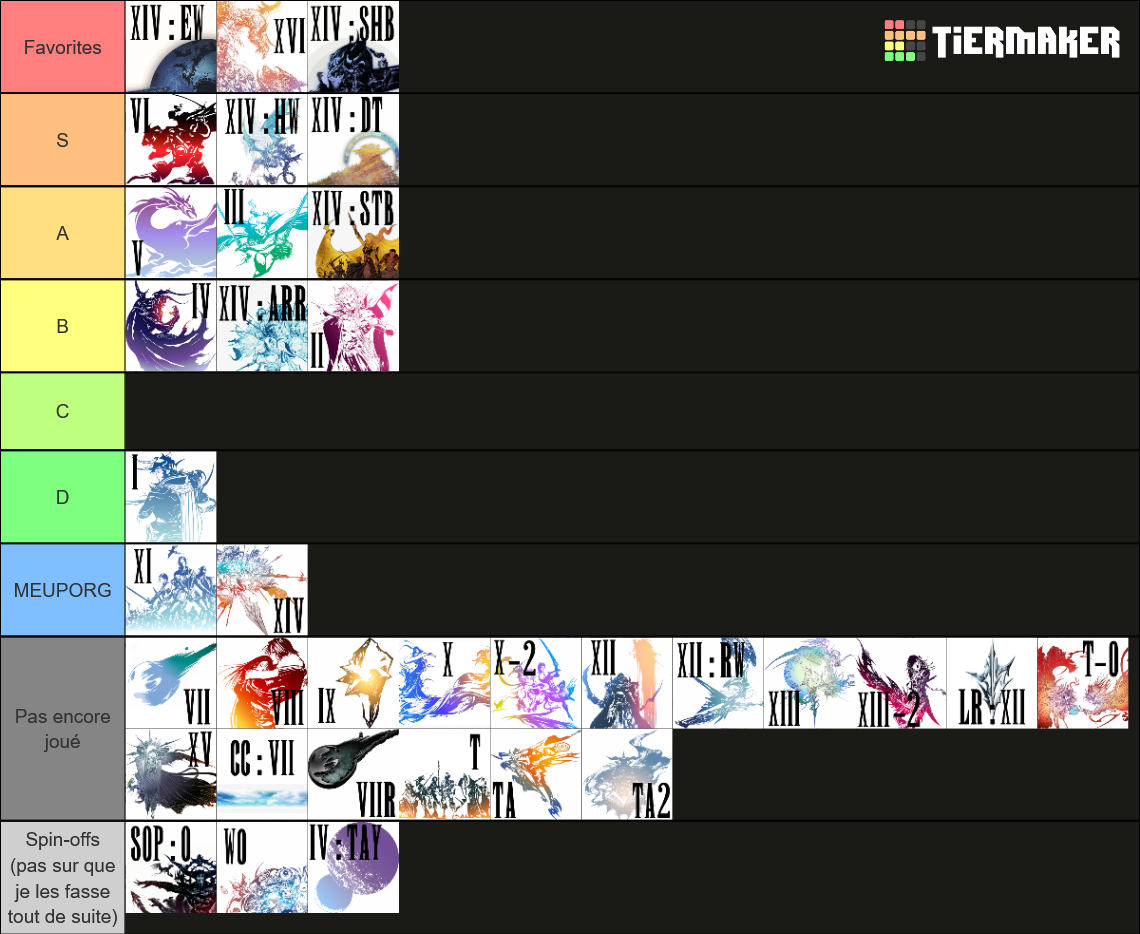
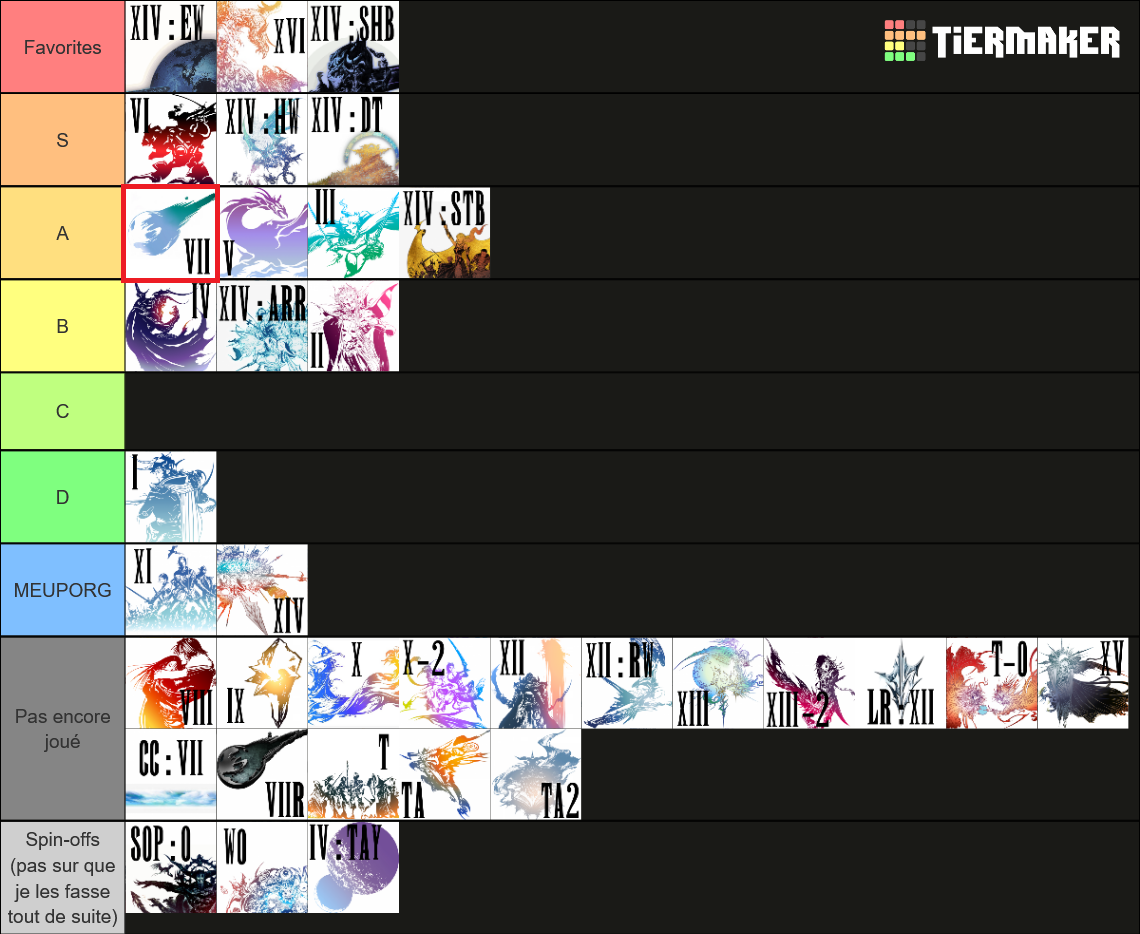
docs: add FF7, Pseudoregalia and The Last of Us articles

Changed region(s): [[0.0921, 0.6831, 1.0, 0.9004], [0.0921, 0.1863, 0.4298, 0.3105]]

diff --git a/_i18n/fr/_posts/2023-12-27-final_fantasy_3.md b/_i18n/fr/_posts/2023-12-27-final_fantasy_3.md
@@ -4,7 +4,7 @@ title:  "(WIP) Final Fantasy III - Le plus grand RPG de la NES"
 tags: final-fantasy
 category: "Final Fantasy Marathon"
 date: "2023-12-27"
-lang: en
+lang: fr
 image:
   path: /assets/img/posts_preview_images/ff3_logo.jpg
   alt: Final Fantasy 3 Logo # or base64 URI
@@ -102,7 +102,7 @@ Nous quittons enfin notre berceau, nous voici sur la vraie map de Final Fantasy 
 
 Il y a de ces moments absolument magiques dans les jeux vidéos, où tous les éléments s'alignent pour créer un moment magique. A titre personnel, la découverte du vrai monde de FF3 en fait partie. La beauté de l'océan, le changement total de paysage et d'envergure, le tout sublimé par une musique qui encapsule parfaitement cette beauté sereine, celle d'un monde qui a tant d'histoires à nous raconter et tant de mystères à nous dévoiler. 
 
-Je pourrais décrire cette scène de mille façons, voici la plus courte: cette scène est belle, c'est la première scène cinématographique de la licence.
+Je pourrais décrire cette scène de mille façons, voici la plus courte: cette scène est belle, c'est la première mise en scène cinématographique du gameplay de la licence, un moment "wow !" si vous préférez.
 
 Après avoir repris ma manette, j'ouvre ma carte. Une seule île ? Tu ne m'auras pas deux fois, Final Fantasy III !
 A la sortie du seul donjon qui nous est accessible, on se retrouve avec de nouvelles questions sur les cristaux, mais surtout, un deuxième moment magique.

diff --git a/_i18n/fr/_posts/2024-12-27-final_fantasy_7.md b/_i18n/fr/_posts/2024-12-27-final_fantasy_7.md
@@ -1,0 +1,25 @@
+---
+layout: post
+title:  "(WIP) Final Fantasy VII - Le Mastodonte"
+tags: final-fantasy
+category: "Final Fantasy Marathon"
+date: "2024-12-27"
+lang: fr
+image:
+  path: /assets/img/posts_preview_images/ff7_logo.jpg
+  alt: Final Fantasy 7 Logo
+---
+
+{% if site.lang == "fr" %}
+  {% capture english_link %}{{ site.url }}/en{{ page.url }}{% endcapture %}
+  <a href="{{ english_link }}" >{% t pages.english_article %}</a>
+{% elsif site.lang == "en" %}
+  {% capture french_link  %}{{ site.url }}{{ page.url }}{% endcapture %}
+ <a href="{{ french_link }}" >{% t pages.french_article %}</a>
+{% endif %}
+
+## Quel jeu de fou
+
+Il est très bien !!
+
+(WIP évidemment)

diff --git a/_i18n/en/_posts/2024-12-27-final_fantasy_7.md b/_i18n/en/_posts/2024-12-27-final_fantasy_7.md
@@ -1,0 +1,25 @@
+---
+layout: post
+title:  "(WIP) Final Fantasy VII - The Giant"
+tags: final-fantasy
+category: "Final Fantasy Marathon"
+date: "2024-12-27"
+lang: en
+image:
+  path: /assets/img/posts_preview_images/ff7_logo.jpg
+  alt: Final Fantasy 7 Logo
+---
+
+{% if site.lang == "fr" %}
+  {% capture english_link %}{{ site.url }}/en{{ page.url }}{% endcapture %}
+  <a href="{{ english_link }}" >{% t pages.english_article %}</a>
+{% elsif site.lang == "en" %}
+  {% capture french_link  %}{{ site.url }}{{ page.url }}{% endcapture %}
+ <a href="{{ french_link }}" >{% t pages.french_article %}</a>
+{% endif %}
+
+## Quel jeu de fou
+
+Il est très bien !!
+
+(WIP évidemment)

diff --git a/_i18n/fr/_posts/2023-01-01-ff_marathon_summary.md b/_i18n/fr/_posts/2023-01-01-ff_marathon_summary.md
@@ -55,4 +55,6 @@ Quand j'aurai terminé un des épisodes, je mettrai à jour ce sommaire pour y i
 
 Je classe les jeux dans une tier list au fur et à mesure de mon avancée, ça permet de résumer à la fois mon progrès et mon avis de façon très superficielle.
 
+Le dernier jeu placé dans la tier list est encadré en rouge :)
+
 ![Tier list des jeux FF auxquels j'ai joué](/assets/img/articles/ff_marathon_summary/tier_list.png)

diff --git a/_i18n/fr/_posts/2024-12-14-qb_6_the_last_of_us.md b/_i18n/fr/_posts/2024-12-14-qb_6_the_last_of_us.md
@@ -1,0 +1,13 @@
+---
+layout: post
+title:  "La Quête du Backlog VI - The Last of Us"
+tags: avis-rapide
+category: "La Quête du Backlog"
+date: "2024-12-14"
+lang: fr
+image:
+  path: /assets/img/posts_preview_images/qb_6_the_last_of_us_logo.jpg
+  alt: Banniere de The Last of Us
+---
+
+WIP

diff --git a/_i18n/fr/_posts/2024-11-25-qb_5_pseudoregalia.md b/_i18n/fr/_posts/2024-11-25-qb_5_pseudoregalia.md
@@ -1,0 +1,13 @@
+---
+layout: post
+title:  "La Quête du Backlog V - Pseudoregalia"
+tags: avis-rapide
+category: "La Quête du Backlog"
+date: "2024-11-25"
+lang: fr
+image:
+  path: /assets/img/posts_preview_images/qb_5_pseudoregalia_logo.jpg
+  alt: Banniere de Pseudoregalia
+---
+
+WIP

diff --git a/_i18n/en/_posts/2024-12-14-qb_6_the_last_of_us.md b/_i18n/en/_posts/2024-12-14-qb_6_the_last_of_us.md
@@ -1,0 +1,11 @@
+---
+layout: post
+title:  "La Quête du Backlog VI - The Last of Us"
+tags: avis-rapide
+category: "La Quête du Backlog"
+date: "2024-12-14"
+lang: en
+image:
+  path: /assets/img/posts_preview_images/qb_6_the_last_of_us_logo.jpg
+  alt: Banniere de The Last of Us
+---

diff --git a/_i18n/en/_posts/2024-11-25-qb_5_pseudoregalia.md b/_i18n/en/_posts/2024-11-25-qb_5_pseudoregalia.md
@@ -1,0 +1,11 @@
+---
+layout: post
+title:  "La Quête du Backlog V - Pseudoregalia"
+tags: avis-rapide
+category: "La Quête du Backlog"
+date: "2024-11-25"
+lang: en
+image:
+  path: /assets/img/posts_preview_images/qb_5_pseudoregalia_logo.jpg
+  alt: Banniere de Pseudoregalia
+---

diff --git a/_i18n/fr/_posts/2024-01-27-final_fantasy_4.md b/_i18n/fr/_posts/2024-01-27-final_fantasy_4.md
@@ -4,7 +4,7 @@ title:  "(WIP) Final Fantasy IV - 50/50"
 tags: final-fantasy
 category: "Final Fantasy Marathon"
 date: "2024-01-27"
-lang: en
+lang: fr
 image:
   path: /assets/img/posts_preview_images/ff4_logo.jpg
   alt: Final Fantasy 4 Logo # or base64 URI

diff --git a/_i18n/fr/_posts/2024-11-02-qb_4_oneshot.md b/_i18n/fr/_posts/2024-11-02-qb_4_oneshot.md
@@ -6,7 +6,7 @@ category: "La Quête du Backlog"
 date: "2024-11-02"
 lang: fr
 image:
-  path: /assets/img/posts_preview_images/qb_4_oneshot.jpg
+  path: /assets/img/posts_preview_images/qb_4_oneshot_logo.jpg
   alt: Banniere de OneShot
 ---
 
